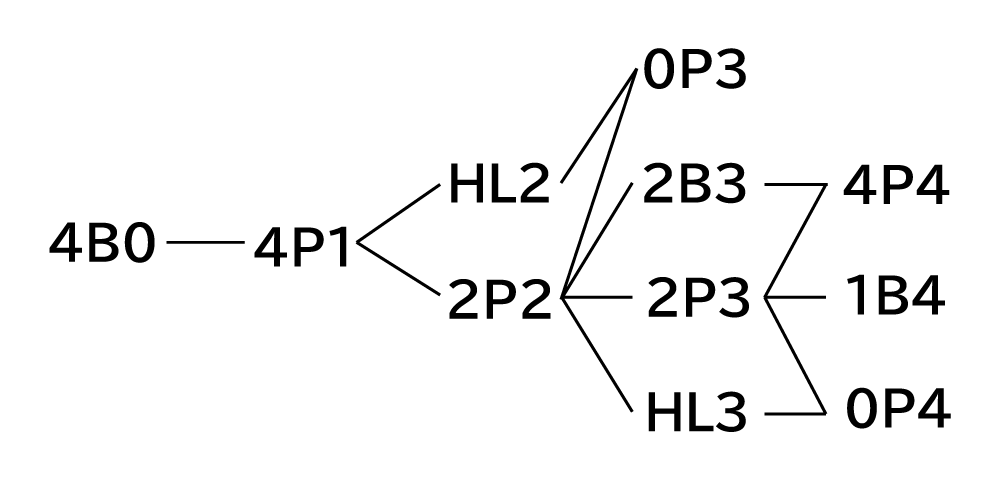
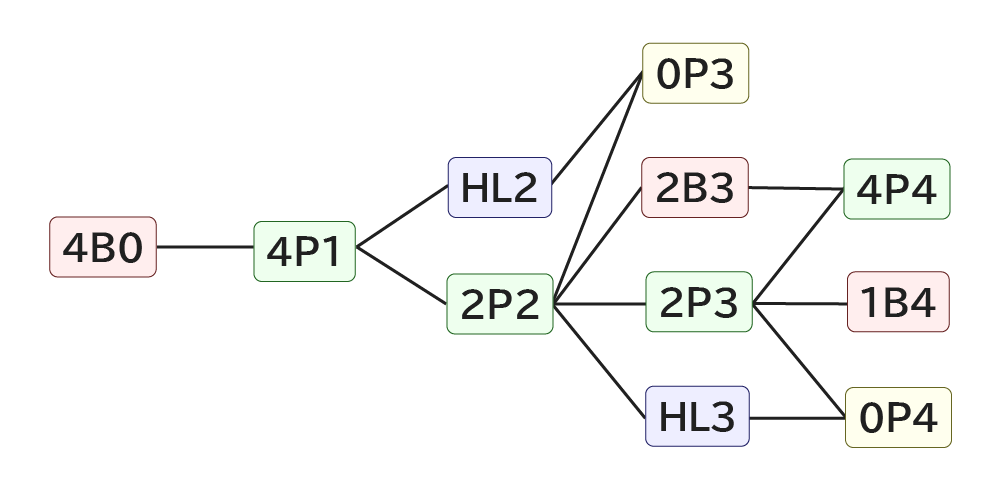
FMC Pensuke Method Analyzer更新

diff --git a/pensuke_method/subsets.html b/pensuke_method/subsets.html
@@ -1,0 +1,203 @@
+<!DOCTYPE html>
+<html lang="ja" data-theme="light">
+  <head>
+    <meta name="viewport" content="width=device-width, initial-scale=1">
+    <meta charset="utf-8">
+    <title>FMC Pensuke Method Subsets</title>
+    <link rel="stylesheet" href="../bulma1.min.css">
+  </head>
+  <body>
+    <section class="section">
+      <div class="container content">
+        <h1>FMC Pensuke Method Subsets</h1>
+        <hr>
+        <h5>4B0</h5>
+        <p>
+          <canvas class="cube" data-faces="DB-DB-DB/DF-DF-DF/UB-UB-UB/UF-UF-UF"></canvas>
+        </p>
+        <h5>2B3</h5>
+        <p>
+          <canvas class="cube" data-faces="DB-UB-DB/DF-DF-DF/UB-DB-UB/UF-UF-UF"></canvas>
+          <canvas class="cube" data-faces="DB-UF-DB/DF-DF-DF/UB-UB-UB/UF-DB-UF"></canvas>
+          <canvas class="cube" data-faces="DB-DB-DB/DF-UF-DF/UB-UB-UB/UF-DF-UF"></canvas>
+          <canvas class="cube" data-faces="DB-DB-DB/DF-UB-DF/UB-DF-UB/UF-UF-UF"></canvas>
+          <canvas class="cube" data-faces="DB-DB-DB/DF-DF-DF/UB-UF-UB/UF-UB-UF"></canvas>
+          <canvas class="cube" data-faces="DB-DF-DB/DF-DB-DF/UB-UB-UB/UF-UF-UF"></canvas>
+        </p>
+        <h5>1B4</h5>
+        <p>
+          <canvas class="cube" data-faces="DB-DF-DB/DF-UB-DF/UB-DB-UB/UF-UF-UF"></canvas>
+          <canvas class="cube" data-faces="DB-DB-DB/DF-UF-DF/UB-DF-UB/UF-UB-UF"></canvas>
+          <canvas class="cube" data-faces="DB-UF-DB/DF-DB-DF/UB-UB-UB/UF-DF-UF"></canvas>
+          <canvas class="cube" data-faces="DB-UB-DB/DF-DF-DF/UB-UF-UB/UF-DB-UF"></canvas>
+          <canvas class="cube" data-faces="DB-UB-DB/DF-DB-DF/UB-DF-UB/UF-UF-UF"></canvas>
+          <canvas class="cube" data-faces="DB-UF-DB/DF-DF-DF/UB-DB-UB/UF-UB-UF"></canvas>
+          <canvas class="cube" data-faces="DB-DB-DB/DF-UB-DF/UB-UF-UB/UF-DF-UF"></canvas>
+          <canvas class="cube" data-faces="DB-DF-DB/DF-UF-DF/UB-UB-UB/UF-DB-UF"></canvas>
+        </p>
+        <h5>HL2</h5>
+        <p>
+          <canvas class="cube" data-faces="DB-DF-DB/DF-DB-DF/UB-UF-UB/UF-UB-UF"></canvas>
+          <canvas class="cube" data-faces="DB-UF-DB/DF-UB-DF/UB-DF-UB/UF-DB-UF"></canvas>
+          <canvas class="cube" data-faces="DB-UB-DB/DF-UF-DF/UB-DB-UB/UF-DF-UF"></canvas>
+        </p>
+        <h5>HL3</h5>
+        <p>
+          <canvas class="cube" data-faces="DB-UF-DB/DF-DB-DF/UB-DF-UB/UF-UB-UF"></canvas>
+          <canvas class="cube" data-faces="DB-UB-DB/DF-DB-DF/UB-UF-UB/UF-DF-UF"></canvas>
+          <canvas class="cube" data-faces="DB-DF-DB/DF-UB-DF/UB-UF-UB/UF-DB-UF"></canvas>
+          <canvas class="cube" data-faces="DB-DF-DB/DF-UF-DF/UB-DB-UB/UF-UB-UF"></canvas>
+          <canvas class="cube" data-faces="DB-UF-DB/DF-UB-DF/UB-DB-UB/UF-DF-UF"></canvas>
+          <canvas class="cube" data-faces="DB-UB-DB/DF-UF-DF/UB-DF-UB/UF-DB-UF"></canvas>
+        </p>
+        <h5>4P1</h5>
+        <p>
+          <canvas class="cube" data-faces="DB-DF-DF/DF-DB-DB/UB-UB-UF/UF-UF-UB"></canvas>
+          <canvas class="cube" data-faces="DB-UF-UF/DF-DF-UB/UB-UB-DF/UF-DB-DB"></canvas>
+          <canvas class="cube" data-faces="DB-DB-DF/DF-DF-DB/UB-UF-UF/UF-UB-UB"></canvas>
+          <canvas class="cube" data-faces="DB-DB-UF/DF-UB-UB/UB-DF-DF/UF-UF-DB"></canvas>
+          <canvas class="cube" data-faces="DB-DB-UB/DF-UF-UF/UB-UB-DB/UF-DF-DF"></canvas>
+          <canvas class="cube" data-faces="DB-UB-UB/DF-DF-UF/UB-DB-DB/UF-UF-DF"></canvas>
+        </p>
+        <h5>4P4</h5>
+        <p>
+          <canvas class="cube" data-faces="DB-DB-UB/DF-DF-UF/UB-UB-DB/UF-UF-DF"></canvas>
+          <canvas class="cube" data-faces="DB-UB-UB/DF-UF-UF/UB-DB-DB/UF-DF-DF"></canvas>
+          <canvas class="cube" data-faces="DB-DB-DF/DF-DF-DB/UB-UB-UF/UF-UF-UB"></canvas>
+          <canvas class="cube" data-faces="DB-DF-DF/DF-DB-DB/UB-UF-UF/UF-UB-UB"></canvas>
+          <canvas class="cube" data-faces="DB-UF-UF/DF-UB-UB/UB-DF-DF/UF-DB-DB"></canvas>
+          <canvas class="cube" data-faces="DB-DB-UF/DF-DF-UB/UB-UB-DF/UF-UF-DB"></canvas>
+        </p>
+        <h5>2P2</h5>
+        <p>
+          <canvas class="cube" data-faces="DB-UB-UF/DF-DB-UB/UB-DF-DF/UF-UF-DB"></canvas>
+          <canvas class="cube" data-faces="DB-UF-UB/DF-DB-UF/UB-UB-DB/UF-DF-DF"></canvas>
+          <canvas class="cube" data-faces="DB-DF-UF/DF-UF-UB/UB-UB-DF/UF-DB-DB"></canvas>
+          <canvas class="cube" data-faces="DB-DF-UB/DF-UB-UF/UB-DB-DB/UF-UF-DF"></canvas>
+          <canvas class="cube" data-faces="DB-UB-DF/DF-DF-DB/UB-UF-UF/UF-DB-UB"></canvas>
+          <canvas class="cube" data-faces="DB-UF-DF/DF-DB-DB/UB-UB-UF/UF-DF-UB"></canvas>
+          <canvas class="cube" data-faces="DB-UF-UB/DF-DF-UF/UB-DB-DB/UF-UB-DF"></canvas>
+          <canvas class="cube" data-faces="DB-DF-UB/DF-UF-UF/UB-UB-DB/UF-DB-DF"></canvas>
+          <canvas class="cube" data-faces="DB-UB-UB/DF-DF-UF/UB-UF-DB/UF-DB-DF"></canvas>
+          <canvas class="cube" data-faces="DB-UF-UF/DF-DF-UB/UB-DB-DF/UF-UB-DB"></canvas>
+          <canvas class="cube" data-faces="DB-DB-UF/DF-UB-UB/UB-UF-DF/UF-DF-DB"></canvas>
+          <canvas class="cube" data-faces="DB-DB-UB/DF-UF-UF/UB-DF-DB/UF-UB-DF"></canvas>
+          <canvas class="cube" data-faces="DB-DB-DF/DF-UF-DB/UB-DF-UF/UF-UB-UB"></canvas>
+          <canvas class="cube" data-faces="DB-DF-DF/DF-UB-DB/UB-DB-UF/UF-UF-UB"></canvas>
+          <canvas class="cube" data-faces="DB-DB-UB/DF-UB-UF/UB-UF-DB/UF-DF-DF"></canvas>
+          <canvas class="cube" data-faces="DB-UB-UB/DF-DB-UF/UB-DF-DB/UF-UF-DF"></canvas>
+          <canvas class="cube" data-faces="DB-DF-DF/DF-UF-DB/UB-UB-UF/UF-DB-UB"></canvas>
+          <canvas class="cube" data-faces="DB-DB-DF/DF-UB-DB/UB-UF-UF/UF-DF-UB"></canvas>
+          <canvas class="cube" data-faces="DB-DB-UF/DF-UF-UB/UB-DF-DF/UF-UB-DB"></canvas>
+          <canvas class="cube" data-faces="DB-UF-UF/DF-DB-UB/UB-UB-DF/UF-DF-DB"></canvas>
+          <canvas class="cube" data-faces="DB-UB-UF/DF-DF-UB/UB-UF-DF/UF-DB-DB"></canvas>
+          <canvas class="cube" data-faces="DB-UF-DF/DF-DF-DB/UB-DB-UF/UF-UB-UB"></canvas>
+          <canvas class="cube" data-faces="DB-DF-UF/DF-UB-UB/UB-DB-DF/UF-UF-DB"></canvas>
+          <canvas class="cube" data-faces="DB-UB-DF/DF-DB-DB/UB-DF-UF/UF-UF-UB"></canvas>
+        </p>
+        <h5>2P3</h5>
+        <p>
+          <canvas class="cube" data-faces="DB-DB-UB/DF-UB-UF/UB-DF-DB/UF-UF-DF"></canvas>
+          <canvas class="cube" data-faces="DB-UB-UB/DF-DB-UF/UB-UF-DB/UF-DF-DF"></canvas>
+          <canvas class="cube" data-faces="DB-UF-UF/DF-DB-UB/UB-DF-DF/UF-UB-DB"></canvas>
+          <canvas class="cube" data-faces="DB-DB-UF/DF-UF-UB/UB-UB-DF/UF-DF-DB"></canvas>
+          <canvas class="cube" data-faces="DB-DF-UB/DF-UF-UF/UB-DB-DB/UF-UB-DF"></canvas>
+          <canvas class="cube" data-faces="DB-UF-UB/DF-DF-UF/UB-UB-DB/UF-DB-DF"></canvas>
+          <canvas class="cube" data-faces="DB-UB-UF/DF-DF-UB/UB-DB-DF/UF-UF-DB"></canvas>
+          <canvas class="cube" data-faces="DB-DF-UF/DF-UB-UB/UB-UF-DF/UF-DB-DB"></canvas>
+          <canvas class="cube" data-faces="DB-UB-UB/DF-UF-UF/UB-DF-DB/UF-DB-DF"></canvas>
+          <canvas class="cube" data-faces="DB-DB-UB/DF-DF-UF/UB-UF-DB/UF-UB-DF"></canvas>
+          <canvas class="cube" data-faces="DB-UF-UB/DF-UB-UF/UB-DB-DB/UF-DF-DF"></canvas>
+          <canvas class="cube" data-faces="DB-DF-UB/DF-DB-UF/UB-UB-DB/UF-UF-DF"></canvas>
+          <canvas class="cube" data-faces="DB-UB-DF/DF-DF-DB/UB-DB-UF/UF-UF-UB"></canvas>
+          <canvas class="cube" data-faces="DB-UF-DF/DF-DB-DB/UB-DF-UF/UF-UB-UB"></canvas>
+          <canvas class="cube" data-faces="DB-DF-DF/DF-UB-DB/UB-UF-UF/UF-DB-UB"></canvas>
+          <canvas class="cube" data-faces="DB-DB-DF/DF-UF-DB/UB-UB-UF/UF-DF-UB"></canvas>
+          <canvas class="cube" data-faces="DB-UB-UF/DF-UF-UB/UB-DF-DF/UF-DB-DB"></canvas>
+          <canvas class="cube" data-faces="DB-DF-UF/DF-DB-UB/UB-UB-DF/UF-UF-DB"></canvas>
+          <canvas class="cube" data-faces="DB-UF-UF/DF-UB-UB/UB-DB-DF/UF-DF-DB"></canvas>
+          <canvas class="cube" data-faces="DB-DB-UF/DF-DF-UB/UB-UF-DF/UF-UB-DB"></canvas>
+          <canvas class="cube" data-faces="DB-DB-DF/DF-UB-DB/UB-DF-UF/UF-UF-UB"></canvas>
+          <canvas class="cube" data-faces="DB-DF-DF/DF-UF-DB/UB-DB-UF/UF-UB-UB"></canvas>
+          <canvas class="cube" data-faces="DB-UF-DF/DF-DF-DB/UB-UB-UF/UF-DB-UB"></canvas>
+          <canvas class="cube" data-faces="DB-UB-DF/DF-DB-DB/UB-UF-UF/UF-DF-UB"></canvas>
+        </p>
+        <h5>0P3</h5>
+        <p>
+          <canvas class="cube" data-faces="DB-UB-DF/DF-UF-DB/UB-DF-UF/UF-DB-UB"></canvas>
+          <canvas class="cube" data-faces="DB-UF-DF/DF-UB-DB/UB-DB-UF/UF-DF-UB"></canvas>
+          <canvas class="cube" data-faces="DB-DF-UF/DF-UF-UB/UB-DB-DF/UF-UB-DB"></canvas>
+          <canvas class="cube" data-faces="DB-UB-UF/DF-DB-UB/UB-UF-DF/UF-DF-DB"></canvas>
+          <canvas class="cube" data-faces="DB-DF-UB/DF-UB-UF/UB-UF-DB/UF-DB-DF"></canvas>
+          <canvas class="cube" data-faces="DB-UF-UB/DF-DB-UF/UB-DF-DB/UF-UB-DF"></canvas>
+        </p>
+        <h5>0P4</h5>
+        <p>
+          <canvas class="cube" data-faces="DB-UF-DF/DF-UB-DB/UB-DF-UF/UF-DB-UB"></canvas>
+          <canvas class="cube" data-faces="DB-DF-UB/DF-DB-UF/UB-UF-DB/UF-UB-DF"></canvas>
+          <canvas class="cube" data-faces="DB-UF-UB/DF-UB-UF/UB-DF-DB/UF-DB-DF"></canvas>
+          <canvas class="cube" data-faces="DB-UB-DF/DF-UF-DB/UB-DB-UF/UF-DF-UB"></canvas>
+          <canvas class="cube" data-faces="DB-DF-UF/DF-DB-UB/UB-UF-DF/UF-UB-DB"></canvas>
+          <canvas class="cube" data-faces="DB-UB-UF/DF-UF-UB/UB-DB-DF/UF-DF-DB"></canvas>
+        </p>
+        <hr>
+        <address class="mb-6">
+          <a href="https://twitter.com/kusano_k">@kusano_k</a>
+        </address>
+      </div>
+    </section>
+    <script>
+for (const canvas of document.querySelectorAll(".cube")) {
+    const F = Array(12);
+    for (let y=0; y<12; y++) {
+        F[y] = Array(3);
+        for (let x=0; x<3; x++) {
+            F[y][x] = ".";
+        }
+    }
+
+    const faces = canvas.dataset.faces.split("/").map(x=>x.split("-"));
+    for (let y=0; y<4; y++) {
+        for (let x=0; x<3; x++) {
+            if (y%2==0) {
+                F[(y*3+6)%12][x] = faces[y][x][0];
+                F[(y*3+5)%12][x] = faces[y][x][1];
+            } else {
+                F[(y*3+5)%12][2-x] = faces[y][x][0];
+                F[(y*3+6)%12][2-x] = faces[y][x][1];
+            }
+        }
+    }
+
+    const S = 16;
+
+    const ctx = canvas.getContext("2d");
+    const dpr = window.devicePixelRatio;
+    canvas.width = S*5*dpr;
+    canvas.height = S*14.5*dpr;
+    ctx.scale(dpr, dpr);
+    canvas.style.width = `${S*5}px`;
+    canvas.style.height = `${S*14.5}px`;
+
+    for (let f=0; f<4; f++) {
+        for (let y=0; y<3; y++) {
+            for (let x=0; x<3; x++) {
+                ctx.beginPath();
+                ctx.rect((x+1)*S, (f*3.5+y+.5)*S, S, S);
+                ctx.fillStyle = {
+                    "F": "#4f4",
+                    "B": "#44f",
+                    "U": "#fff",
+                    "D": "#ee2",
+                    ".": "#ccc",
+                }[F[f*3+y][x]];
+                ctx.fill();
+                ctx.lineWidth = .5;
+                ctx.stroke();
+            }
+        }
+    }
+}
+    </script>
+  </body>
+</html>

diff --git a/pensuke_method/index.html b/pensuke_method/index.html
@@ -72,10 +72,11 @@
             <li><a href="https://pensuke-cube.hatenablog.com/entry/2025/02/01/082237">HTR後FRを使わずにLeave Sliceを作る方法の解説 - ぺんすけのぶろぐ</a></li>
             <li><a href="https://x.com/zonsan531/status/1950086720503808304">https://x.com/zonsan531/status/1950086720503808304</a></li>
             <li><a href="https://x.com/MegaDBL/status/1951644902577824192">https://x.com/MegaDBL/status/1951644902577824192</a></li>
+            <li><a href="https://x.com/MegaDBL/status/2059079383995080937">https://x.com/MegaDBL/status/2059079383995080937</a></li>
           </ul>
           <p>
             ぺんすけ法における状態は、4B0、2B3、1B4、4P1、4P4、2P2、2P3、HL2、HL3、0P3、0P4の11個。
-            先頭の2文字は主にバーなどの個数を、末尾の1文字が必要なR2/L2などの個数を表している。
+            先頭の2文字は主にバーなどの個数を、末尾の1文字が必要なR2/L2などの回数を表している。
             各状態の説明と判別方法は次の通り。
             F/B面について説明しているが、他の面についても同様である。
           </p>
@@ -112,6 +113,10 @@
           <p>
             <canvas class="cube" data-faces="UU....UU..........FF....FF...........BB....BBDD....DD."></canvas>
             <canvas class="cube" data-faces=".UU....UU..........FF....FF.........BB....BB..DD....DD"></canvas>
+            <canvas class="cube" data-faces=".UU....UU..........FF...FF..........BB.....BBDD....DD."></canvas>
+            <canvas class="cube" data-faces="UU....UU..........FF.....FF..........BB...BB..DD....DD"></canvas>
+            <canvas class="cube" data-faces="UU.....UU..........FF....FF..........BB....BB.DD...DD."></canvas>
+            <canvas class="cube" data-faces=".UU...UU..........FF....FF..........BB....BB.DD.....DD"></canvas>
           </p>
           <h5>4P4</h5>
           <p>
@@ -131,6 +136,10 @@
           <p>
             <canvas class="cube" data-faces="RR....RR..........RR....RR...........RR....RRRR....RR."></canvas>
             <canvas class="cube" data-faces=".RR....RR..........RR....RR.........RR....RR..RR....RR"></canvas>
+            <canvas class="cube" data-faces=".RR....RR..........RR...RR..........RR.....RRRR....RR."></canvas>
+            <canvas class="cube" data-faces="RR....RR..........RR.....RR..........RR...RR..RR....RR"></canvas>
+            <canvas class="cube" data-faces="RR.....RR..........RR....RR..........RR....RR.RR...RR."></canvas>
+            <canvas class="cube" data-faces=".RR...RR..........RR....RR..........RR....RR.RR.....RR"></canvas>
           </p>
           <h5>2P4</h5>
           <p>
@@ -144,38 +153,50 @@
           <h5>HL2</h5>
           <p>
             4辺とも、2個のコーナーの色は一致し、コーナーとエッジの色は一致しないヘッドライト（<b>H</b>ead <b>L</b>ight）になっている。
-            HL3との見分け方は、エッジの2点交換でコーナーとエッジを一致させようと思ったとき、2回の2点交換で一致させられるかどうか。
-            4辺ともエッジとコーナーはしていないので、PLLのHパームやZパームのようになる。
           </p>
           <p>
             <canvas class="cube" data-faces="UDU...UDU.........FBF...FBF.........BFB...BFBDUD...DUD"></canvas>
           </p>
+          <p>
+            かつ、F/B面のみを見てU/D面を無視するか、U/D面のみを見てF/B面を無視するかのどちらかで、バーが4個ある、もしくはどちらでもバーが無い。
+          </p>
+          <p>
+            <canvas class="cube" data-faces="UUU...UUU....................................DDD...DDD"></canvas>
+            <canvas class="cube" data-faces="..................FFF...FFF.........BBB...BBB........."></canvas>
+          </p>
           <h5>HL3</h5>
           <p>
             4辺とも、ヘッドライトになっている。
-            HL2との見分け方は、エッジの2点交換でコーナーとエッジを一致させようと思ったとき、3回の2点交換で一致させられるかどうか。
-            3x3x3のPLLとしては存在しない形になる。
           </p>
           <p>
             <canvas class="cube" data-faces="UUU...UDU.........FFF...FBF.........BFB...BBBDDD...DUD"></canvas>
+          </p>
+          <p>
+            かつ、F/B面のみを見てU/D面を無視するか、U/D面のみを見てF/B面を無視するかの少なくともどちらか一方で、バーが2個ある。
+          </p>
+          <p>
+            <canvas class="cube" data-faces="UUU...UUU............................................."></canvas>
+            <canvas class="cube" data-faces="..................FFF.....................BBB........."></canvas>
           </p>
           <h5>0P3</h5>
           <p>
             4辺とも、バーもペアもヘッドライトも無い。
             ペア以外も無いが、0Pとする。
-            0Pは、R2を回すと4個のヘッドライトか2個のペアのどちらかになる。
-            HL2か2P2になるのであれば、0P3。
+            0P3と0P4は、F/B面のみを見てU/D面を無視するか、U/D面のみを見てF/B面を無視するかの少なくともどちらか一方で、ペアが4個ある。
+            これらのペアが4P1と同じ位置にあれば、0P3。
           </p>
           <p>
-            <canvas class="cube" data-faces="......................................................"></canvas>
+            <canvas class="cube" data-faces="UU....UU.....................................DD....DD."></canvas>
+            <canvas class="cube" data-faces="..................FF....FF..........BB....BB.........."></canvas>
           </p>
           <h5>0P4</h5>
           <p>
             4辺とも、バーもペアもヘッドライトも無い。
-            R2を回してHL3か2P3になるのであれば、0P4。
+            F/B面のみを見てU/D面を無視するか、U/D面のみを見てF/B面を無視するかの少なくともどちらか一方で、ペアが4個あり、これらのペアが4P4と同じ位置にあれば、0P4。
           </p>
           <p>
-            <canvas class="cube" data-faces="......................................................"></canvas>
+            <canvas class="cube" data-faces="UU.....UU....................................DD.....DD"></canvas>
+            <canvas class="cube" data-faces="..................FF.....FF.........BB.....BB........."></canvas>
           </p>
           <p>
             状態の遷移は下図の通り。